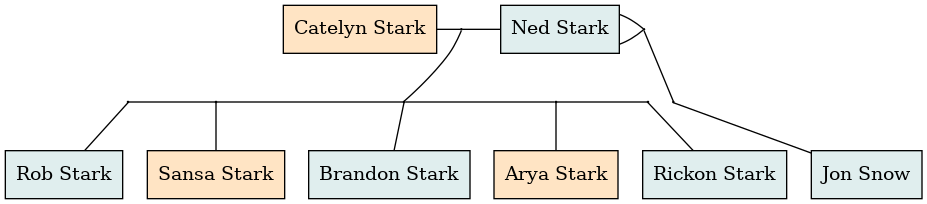
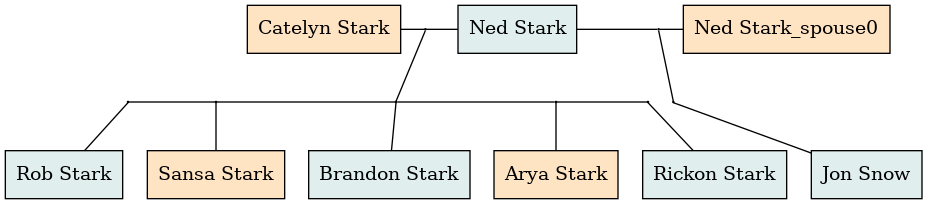
Fix single parent issue

Changed region(s): [[0.2416, 0.0, 0.9666, 0.4706], [0.4229, 0.4118, 0.4531, 0.7353], [0.4531, 0.3235, 0.4833, 0.4118]]

diff --git a/familytree.py b/familytree.py
@@ -1,7 +1,7 @@
 """
 Run
 
-$ ./familytree.py -a 'Sample' sample.txt | dot -Tpng -o Sample.png
+$ python3 familytree.py -a 'Sample' sample.txt | dot -Tpng -o Sample.png
 
 """
 
@@ -117,13 +117,13 @@ class Family:
 		person already exists.
 
 		"""
-		p = Person(string)
-		key = p.id
+		person_obj = Person(string)
+		key = person_obj.id
 
 		if key in self.everybody:
-			self.everybody[key].attr.update(p.attr)
+			self.everybody[key].attr.update(person_obj.attr)
 		else:
-			self.everybody[key] = p
+			self.everybody[key] = person_obj
 
 		return self.everybody[key]
 
@@ -142,6 +142,17 @@ class Family:
 		for p in h.parents:
 			if not h in p.households:
 				p.households.append(h)
+	def create_spouse(self, spouse, household):
+		name = spouse.name + "_spouse" + str(household.id)
+		sex = "M"
+		if spouse.attr["M"]:
+			sex = "F"
+		person_obj = self.add_person(name + "(" + sex + ")")
+		household.parents.append(person_obj)
+
+	def validate_household(self, h):
+		if len(h.parents) != 2:
+			self.create_spouse(h.parents[0], h)
 
 	def find_person(self, name):
 		"""Tries to find a person matching the 'name' argument.
@@ -151,37 +162,39 @@ class Family:
 		if name in self.everybody:
 			return self.everybody[name]
 		# Ancestor not found in 'id', maybe it's in the 'name' field?
-		for p in self.everybody.values():
-			if p.name == name:
-				return p
+		for person in self.everybody.values():
+			if person.name == name:
+				return person
 		return None
 		
-	def populate(self, f):
+	def populate(self, file_obj):
 		"""Reads the input file line by line, to find persons and unions.
 
 		"""
-		h = Household()
+		household_obj = Household()
 		while True:
-			line = f.readline()
+			line = file_obj.readline()
 			if line == '': # end of file
-				if not h.isempty():
-					self.add_household(h)
+				if not household_obj.isempty():
+					self.validate_household(household_obj)
+					self.add_household(household_obj)
 				break
 			line = line.rstrip()
 			if line == '':
-				if not h.isempty():
-					self.add_household(h)
-				h = Household()
+				if not household_obj.isempty():
+					self.validate_household(household_obj)
+					self.add_household(household_obj)
+				household_obj = Household()
 			elif line[0] == '#':
 				continue
 			else:
 				if line[0] == '\t' or line[0] == ' ':
-					p = self.add_person(line[1:])
-					p.parents = h.parents
-					h.kids.append(p)
+					person_obj = self.add_person(line[1:])
+					person_obj.parents = household_obj.parents
+					household_obj.kids.append(person_obj)
 				else:
-					p = self.add_person(line)
-					h.parents.append(p)
+					person_obj = self.add_person(line)
+					household_obj.parents.append(person_obj)
 
 	def find_first_ancestor(self):
 		"""Returns the first ancestor found.
@@ -221,6 +234,7 @@ class Family:
 		if len(household.parents) > 1:
 			return household.parents[0] == person and household.parents[1] or household.parents[0]
 		else:
+			#create_parent()
 			return household.parents[0]
 
 	def display_generation(self, gen):
@@ -309,8 +323,8 @@ class Family:
 		      '\tnode [shape=box];\n' + \
 		      '\tedge [dir=none];\n')
 
-		for p in self.everybody.values():
-			print('\t' + p.graphviz() + ';')
+		for eachone in self.everybody.values():
+			print('\t' + eachone.graphviz() + ';')
 		print('')
 
 		while gen:
@@ -340,15 +354,15 @@ def main():
 	#print(args.input)
 	#print("in")
 
-	f = open(args.input, 'r', encoding='utf-8')
-	family.populate(f)
-	f.close()
+	file_obj = open(args.input, 'r', encoding='utf-8')
+	family.populate(file_obj)
+	file_obj.close()
 
 	# Find the ancestor from whom the tree is built
 	if args.ancestor:
 		ancestor = family.find_person(args.ancestor)
 		if not ancestor:
-			raise Exception('Cannot find person "' + args.ancestor + '"')
+			raise Exception('Ancestor  ' + args.ancestor + ' not found')
 	else:
 		ancestor = family.find_first_ancestor()
 
